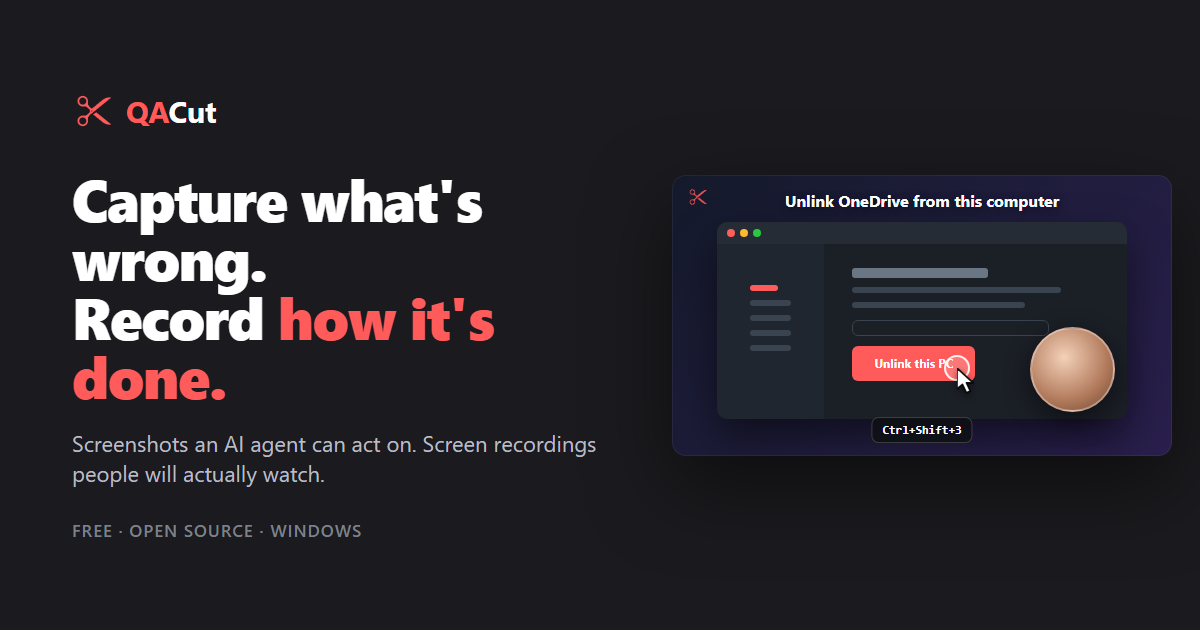
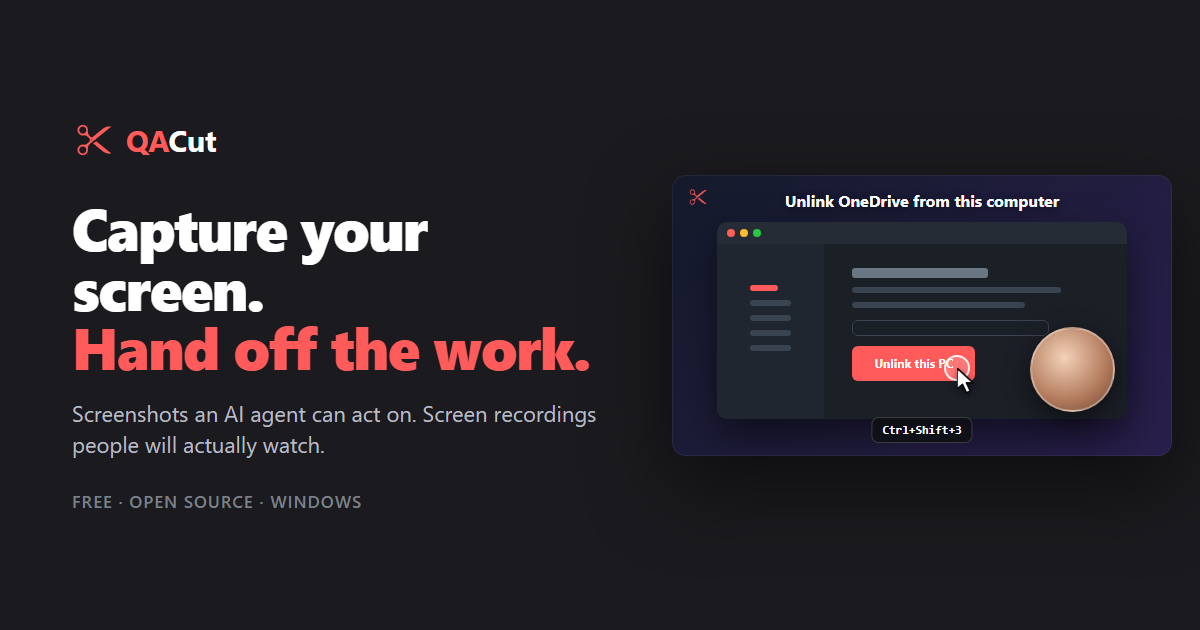
Site: one headline that says what QACut does

Changed region(s): [[0.0617, 0.2714, 0.4933, 0.8746], [0.0617, 0.1508, 0.185, 0.2413]]

diff --git a/site/og-card.html b/site/og-card.html
@@ -52,7 +52,7 @@
 <body>
 <div>
   <div class="brand"><img src="file:///C:/projects/qacut/site/public/logo.png" alt="" /><span><b>QA</b>Cut</span></div>
-  <h1>Capture what's wrong.<br />Record <em>how it's done.</em></h1>
+  <h1>Capture your screen.<br /><em>Hand off the work.</em></h1>
   <p>Screenshots an AI agent can act on. Screen recordings people will actually watch.</p>
   <div class="foot">Free · Open source · Windows</div>
 </div>

diff --git a/site/index.md b/site/index.md
@@ -10,8 +10,8 @@ titleTemplate: Screen capture that hands off
 <section class="qc-hero">
 <div>
 <span class="eyebrow">Free and open source · Windows</span>
-<h1>Capture what's wrong.<br />Record <em>how it's done.</em></h1>
-<p class="lead">QACut turns screenshots and clips into a bundle an AI agent can act on. QACut Studio turns a screen recording into a walkthrough worth watching. One tray icon. No account. Nothing leaves your machine unless you send it.</p>
+<h1>Capture your screen.<br /><em>Hand off the work.</em></h1>
+<p class="lead">Screenshots and notes become a bundle an AI agent can fix from. Screen recordings become walkthroughs people will actually watch. One tray icon, no account, and nothing leaves your machine unless you send it.</p>
 <div class="qc-actions">
 <a class="qc-btn primary" href="https://github.com/mcinnisdev/qacut/releases/latest">Download for Windows</a>
 <a class="qc-btn outline" href="/docs/getting-started">Getting started</a>
